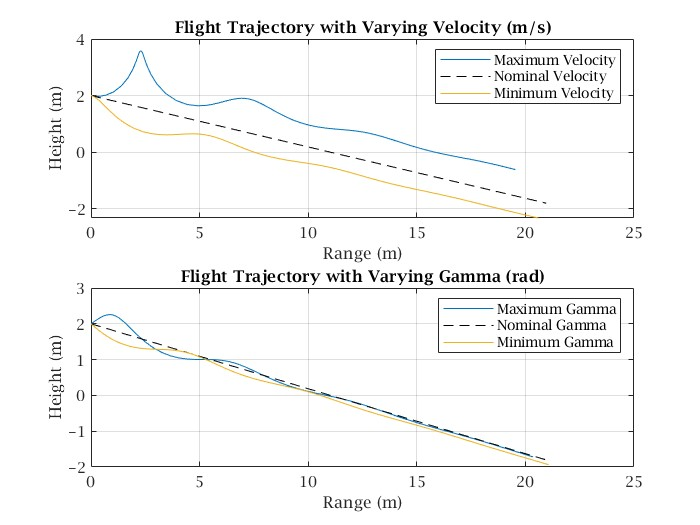
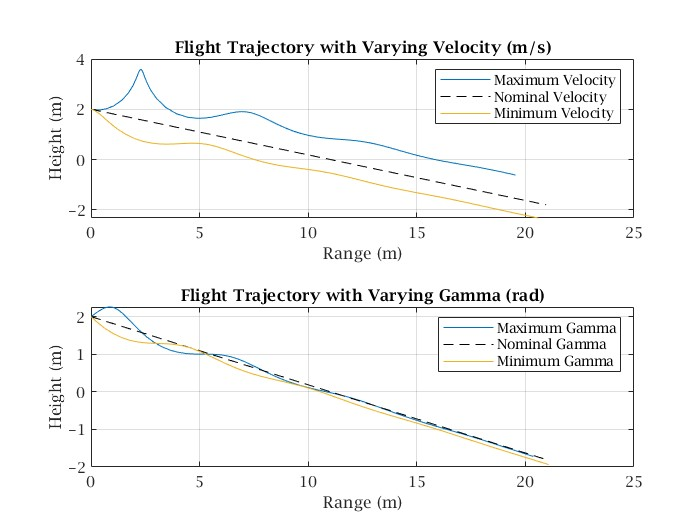
Increased spacing between subplots

diff --git a/PaperPlane.m b/PaperPlane.m
@@ -81,7 +81,7 @@
 	plot(xMinG(:,4),xMinG(:,3),DisplayName='Minimum Gamma')
     xlabel("Range (m)");
     ylabel("Height (m)");
-    title("Flight Trajectory with Varying Gamma (rad)");
+    title({'';'Flight Trajectory with Varying Gamma (rad)'})
     grid on
     fontname(font)
     legend show
